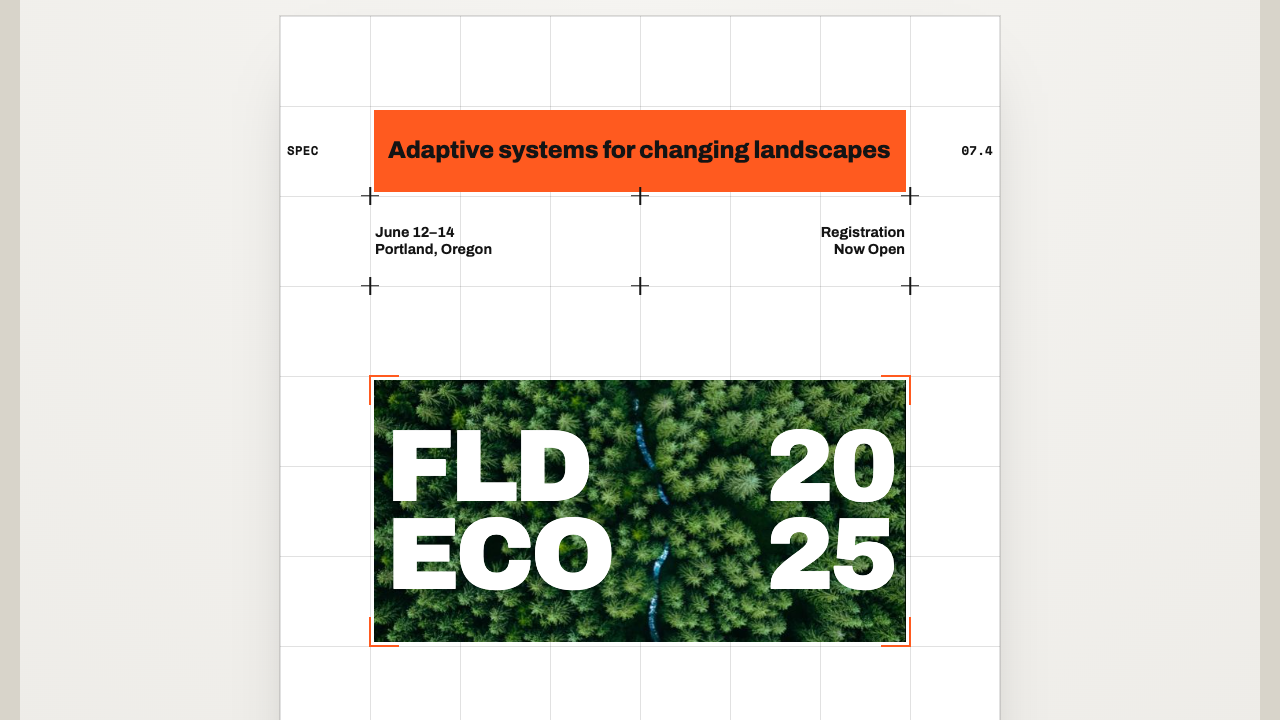
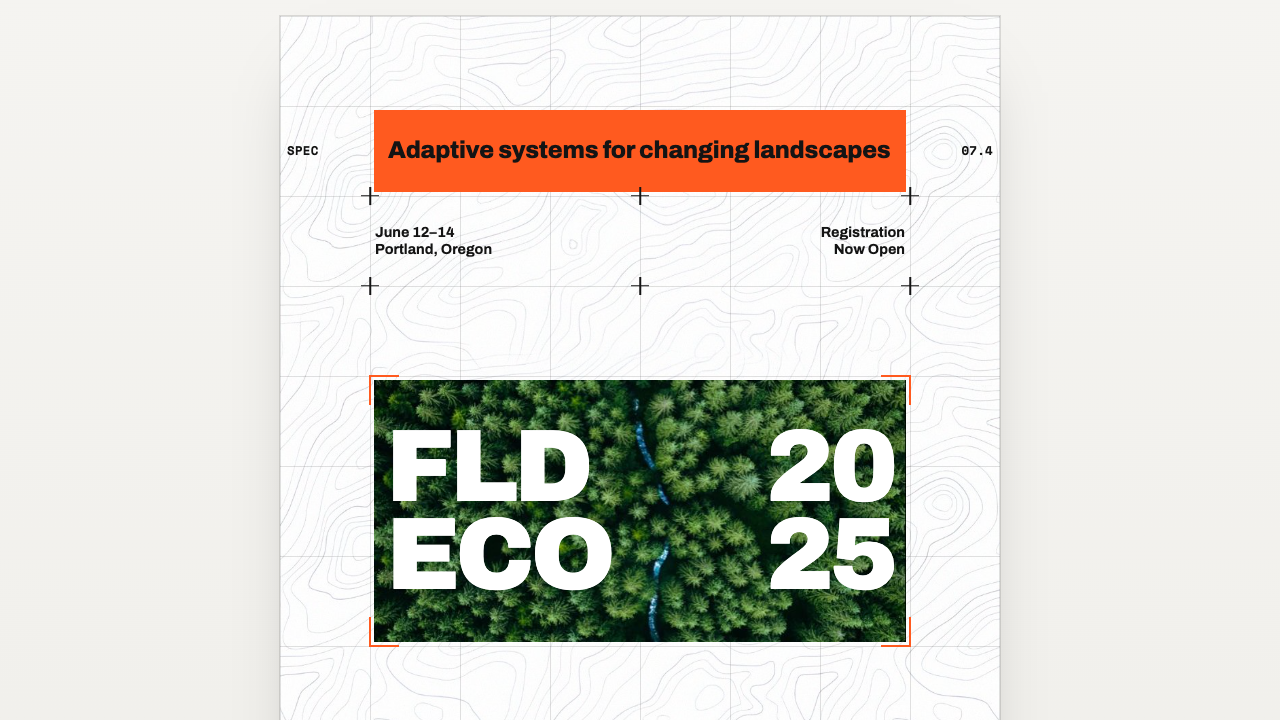
Adaptive Grid: unify layout surround with the stage, refresh thumbnail
The experiment frame (chrome) sat a shade darker than the poster stage,
making a visible seam that showed up as sloppy in the gallery thumbnail.
Set bgTop/bgBottom on the experiment entry to a light greige and make
.ag-stage transparent, so the layout frame and the stage are one
continuous light surface. Re-screenshot the gallery thumbnail.

Changed region(s): [[0.9688, 0.0, 1.0, 1.0], [0.0, 0.0, 0.0312, 1.0]]

diff --git a/app/design-experiments/(experiments)/adaptive-grid/components/styles.css b/app/design-experiments/(experiments)/adaptive-grid/components/styles.css
@@ -18,7 +18,9 @@
 
   font-family: var(--ag-display), system-ui, sans-serif;
   color: var(--ag-ink);
-  background: radial-gradient(120% 120% at 50% 0%, #f6f5f2 0%, #e9e7e2 100%);
+  /* transparent so the layout frame's light bg (bgTop/bgBottom in data.ts)
+     shows through — chrome and stage become one continuous surface */
+  background: transparent;
   min-height: 100%;
   padding: clamp(20px, 4vw, 56px) clamp(16px, 4vw, 56px) 80px;
   display: flex;

diff --git a/lib/experiments/data.ts b/lib/experiments/data.ts
@@ -10,6 +10,8 @@ export const experiments: Experiment[] = [
     screenshot: '/screenshots/adaptive-grid.png',
     tags: ['Swiss', 'Grid System', 'Typography', 'Responsive', 'Layout'],
     theme: 'light',
+    bgTop: '#f6f5f2',
+    bgBottom: '#edece7',
   },
   {
     slug: 'war-room',